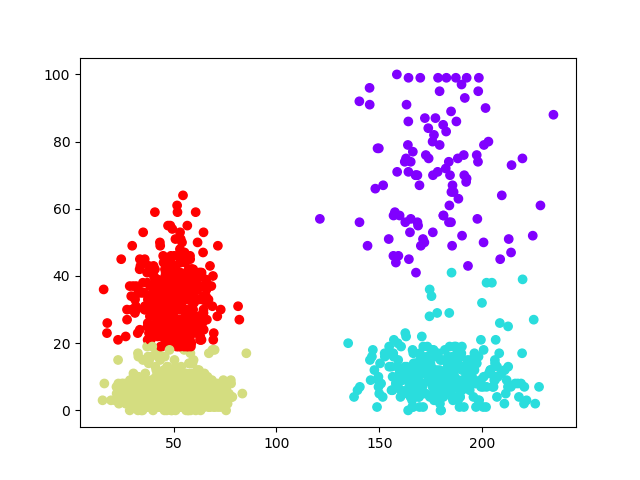
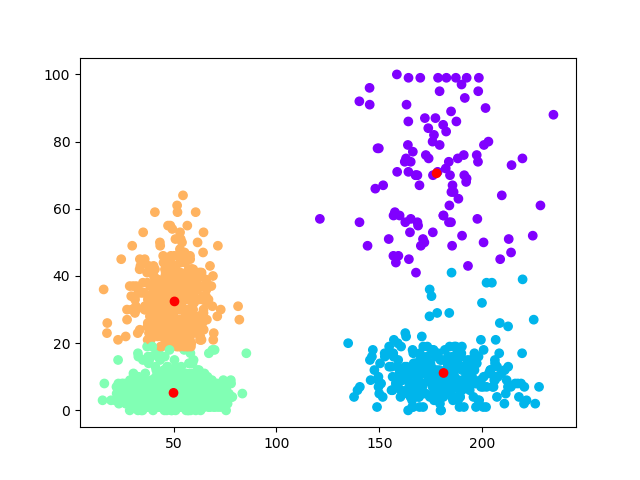
added centroids to image

diff --git a/kmeans/demo.py b/kmeans/demo.py
@@ -2,7 +2,7 @@ import numpy as np
 import matplotlib.pyplot as plt
 
 def euclidian(x, y):
-    return np.sqrt(np.sum((x-y)**2))
+    return np.linalg.norm(x-y)
 
 def centroid(cluster):
     if len(cluster) <= 0:
@@ -29,7 +29,7 @@ def kmeans(num_of_clusters, data, num_of_iterations):
     print("initial clusters")
     print(data)
     centers = np.array([[175,80], [175,15], [50, 15], [50,35]])
-    #centers = np.array([ data[:,:-1].mean(axis=0) for _ in range(num_of_clusters)])
+    # centers = np.array([ data[:,:-1].mean(axis=0) for _ in range(num_of_clusters)])
     #print(centers)
 
     for itr in range(1, num_of_iterations):
@@ -76,7 +76,9 @@ def main():
     clusters, centers = kmeans(num_of_clusters, train_data, num_of_iterations)
     print("final clusters")    
     print(clusters)
-    plot(clusters)
+    centers = expand(centers)
+    centers[:,-1] += num_of_clusters
+    plot(np.append(clusters, centers, axis=0))
 
     predicted = classify(test_data, centers)
     print("predicted clusters")
